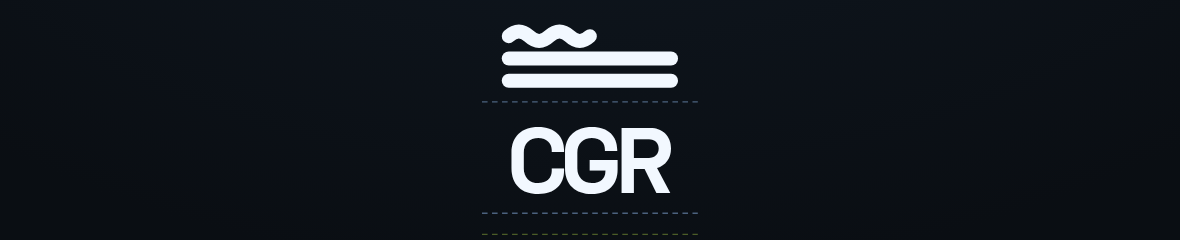
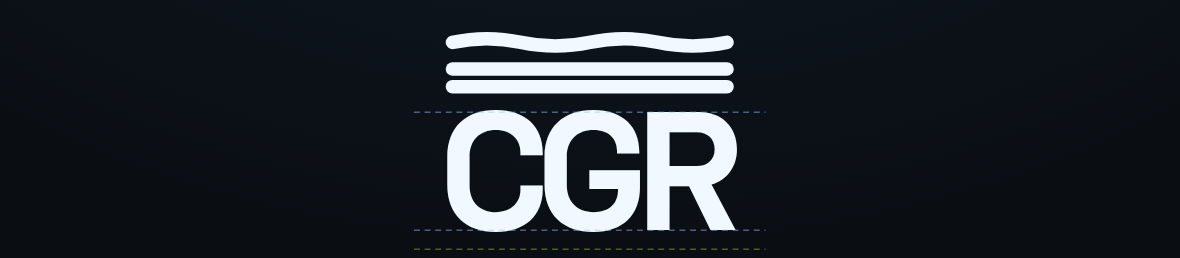
design(grade-lab): ink-based spacing, separate APX waves

Changed region(s): [[0.3661, 0.4083, 0.6407, 0.9042], [0.3661, 0.0875, 0.6407, 0.3792], [0.3661, 0.9625, 0.6407, 0.9917]]

diff --git a/design/grade-lab/lockup.js b/design/grade-lab/lockup.js
@@ -11,11 +11,27 @@
  *   - 横线 = 已经落定 → 落在基线以下（stack）。
  */
 
+// adv = 这一行到下一行的距离（cap height 的倍数）。
+// 波浪之间收得比“等号”略紧；等号两横比波浪更紧，像真的 ≅。
 export const SYMBOLS = {
-  APX: ['wave', 'wave'],
-  ASM: ['wave', 'line'],
-  CGR: ['wave', 'line', 'line'],
-  IDN: ['line', 'line', 'line'],
+  APX: [
+    { kind: 'wave', adv: 0.245 },
+    { kind: 'wave' },
+  ],
+  ASM: [
+    { kind: 'wave', adv: 0.225 },
+    { kind: 'line' },
+  ],
+  CGR: [
+    { kind: 'wave', adv: 0.225 },
+    { kind: 'line', adv: 0.15 },
+    { kind: 'line' },
+  ],
+  IDN: [
+    { kind: 'line', adv: 0.15 },
+    { kind: 'line', adv: 0.15 },
+    { kind: 'line' },
+  ],
 };
 
 const SVG_NS = 'http://www.w3.org/2000/svg';
@@ -45,63 +61,65 @@ export function renderLockup(host, opts) {
   text.textContent = word;
   svg.appendChild(text);
 
+  // SVG 的 getBBox 对 <text> 会连字体的 ascent / descent 一起算，不能当 cap height。
+  // 用 canvas 的 actualBoundingBoxAscent 量 'H' 的墨迹高度，才是真的 cap height。
+  const canvas = document.createElement('canvas');
+  const ctx = canvas.getContext('2d');
+  const family = getComputedStyle(host).fontFamily || 'sans-serif';
+  if (ctx) ctx.font = `800 ${size}px ${family}`;
+  const cap = ctx ? ctx.measureText('H').actualBoundingBoxAscent : size * 0.72;
+
   const box = text.getBBox();
-  const cap = box.height; // 全大写 → 包围盒高度就是 cap height
   const left = box.x;
   const right = box.x + box.width;
-  const top = box.y;
-  const baseline = box.y + box.height;
-  const width = box.width;
+  const baseline = 0;
+  const top = baseline - cap;
   const measure = right - left;
 
   // —— 2. 从字体里取网格 ——
-  const stem = cap * 0.125; // 和 800 字重的字干接近
-  const amp = cap * 0.085; // 波纹振幅
-  const gap = cap * 0.19; // 符号离字的距离
-  const step = cap * 0.2; // 行距
+  const stem = cap * 0.115; // 和 800 字重的字干接近
+  const amp = cap * 0.062; // 波纹振幅
+  const gap = cap * 0.16; // 符号的墨迹到字的距离
+  const inset = stem * 0.75; // 视觉宽度：记号比字略窄，A / X 这类斜边才不会被记号压住
 
-  const waves = rows.filter((r) => r === 'wave').length;
-  const lines = rows.filter((r) => r === 'line').length;
+  const inkLeft = left + inset;
+  const inkRight = right - inset;
+  const inkWidth = inkRight - inkLeft;
 
   const paths = [];
 
   const wavePath = (y) => {
-    const period = measure / 4;
-    const q = period / 2;
-    let d = `M ${left} ${y} q ${q / 2} ${-amp} ${q} 0`;
+    // 四个拱：接近字体里的 ≈，不是装饰性的波浪线。
+    const q = inkWidth / 4;
+    let d = `M ${inkLeft} ${y} q ${q / 2} ${-amp} ${q} 0`;
     for (let i = 0; i < 3; i += 1) d += ` t ${q} 0`;
     return d;
   };
-  const linePath = (y) => `M ${left} ${y} L ${right} ${y}`;
+  const linePath = (y) => `M ${inkLeft} ${y} L ${inkRight} ${y}`;
+
+  // 每一行到下一行的距离，以及每一行的墨迹半高（gap 量的是墨迹到墨迹，不是中心线）
+  const advances = rows.map((row) => cap * (row.adv ?? 0.15));
+  const half = rows.map((row) => (row.kind === 'wave' ? amp + stem / 2 : stem / 2));
+  const stackHeight = advances.slice(0, -1).reduce((sum, v) => sum + v, 0);
 
   if (variant === 'above') {
-    // 整个符号当作一枚记号，压在字的上方：最后一行离 cap line 一个 gap，
-    // 前面的行往上叠。宽度和字完全一致。
-    const total = (rows.length - 1) * step;
-    let y = top - gap - total;
-    for (const row of rows) {
-      paths.push(row === 'wave' ? wavePath(y) : linePath(y));
-      y += step;
-    }
-  } else if (variant === 'below') {
-    let y = baseline + gap;
-    for (const row of rows) {
-      paths.push(row === 'wave' ? wavePath(y) : linePath(y));
-      y += step;
-    }
-  } else if (variant === 'stack') {
-    // 所有行都在基线以下，像一条“底座”
-    let y = baseline + gap;
-    for (const row of rows) {
-      paths.push(row === 'wave' ? wavePath(y) : linePath(y));
-      y += step;
-    }
+    // 整枚记号压在字的上方：最后一行的底边离 cap line 一个 gap，前面的行往上叠。
+    let y = top - gap - half[rows.length - 1] - stackHeight;
+    rows.forEach((row, index) => {
+      paths.push(row.kind === 'wave' ? wavePath(y) : linePath(y));
+      y += advances[index];
+    });
+  } else if (variant === 'below' || variant === 'stack') {
+    let y = baseline + gap + half[0];
+    rows.forEach((row, index) => {
+      paths.push(row.kind === 'wave' ? wavePath(y) : linePath(y));
+      y += advances[index];
+    });
   } else {
     // behind：行均匀铺在字高区间，作为背景层（对比用）
-    const total = rows.length - 1;
     rows.forEach((row, index) => {
-      const y = top + (cap * index) / Math.max(1, total);
-      paths.push(row === 'wave' ? wavePath(y) : linePath(y));
+      const y = top + (cap * index) / Math.max(1, rows.length - 1);
+      paths.push(row.kind === 'wave' ? wavePath(y) : linePath(y));
     });
   }
 
@@ -119,12 +137,9 @@ export function renderLockup(host, opts) {
   const pad = cap * 0.24;
   const above = variant === 'above';
   const below = variant === 'below' || variant === 'stack';
-  const minY = above ? top - gap - (rows.length - 1) * step - amp - pad : top - pad * 0.6;
-  const maxY = below
-    ? baseline + gap + (rows.length - 1) * step + pad
-    : variant === 'above'
-      ? baseline + pad
-      : baseline + pad;
+  const inkTop = rows.length ? top - gap - half[rows.length - 1] - stackHeight - half[0] : top;
+  const minY = above ? inkTop - pad : top - pad * 0.6;
+  const maxY = below ? baseline + gap + stackHeight + half[0] + half[rows.length - 1] + pad : baseline + pad;
   const minX = left - pad;
   const maxX = right + pad;
   svg.setAttribute('viewBox', `${minX} ${minY} ${maxX - minX} ${maxY - minY}`);

diff --git a/design/grade-lab/index.html b/design/grade-lab/index.html
@@ -98,8 +98,8 @@
         <div class="rules">
           <p>
             <b>同宽</b>：符号的左右边界就是三个字母的实测包围盒，不缩、不伸出。
-            <b>同粗</b>：符号描边 = 字干粗细（≈ cap height 的 12.5%）。
-            <b>对齐</b>：波纹的对齐基准是 cap line，横线的对齐基准是 baseline。
+            <b>同粗</b>：符号描边 = 字干粗细（≈ cap height 的 11.5%）。
+            <b>对齐</b>：整枚记号的底边离 cap line 0.16 cap；等号的两横比波浪更紧。
           </p>
           <p>
             <b>语义参与布局</b>：波纹 = 还没收敛，横线 = 已经落定。整枚记号压在字的上方，

diff --git a/prototype/FUTURE.md b/prototype/FUTURE.md
@@ -67,8 +67,9 @@
 - **方向已定（2026-10-22）**：95% 以上用「三字母简写 + 数学同一性符号」的锁版。
   样张在 [`../design/grade-lab/`](../design/grade-lab/)：每个符号单独一页，符号是自绘 SVG，
   波纹逐级消失（`≈` 两波 → `≃` 一波一横 → `≅` 一波两横 → `≡` 三横），不依赖字体覆盖。
-- **锁版规则**：符号与字同宽（取字母实测包围盒）、描边与字干同粗、波纹对齐 cap line、
-  横线对齐 baseline；默认摆法是「整枚记号压在字上方」。
+- **锁版规则**：符号与字同宽（取字母实测包围盒，再收半个描边做视觉修正）、描边 = 字干
+  （cap height 的 11.5%）、记号底边离 cap line 0.16 cap（量墨迹，不量中心线）；
+  默认摆法是「整枚记号压在字上方」。
 - 恰好 100% 记为 **`IDN+`**（`IDN` 覆盖 99–100%，`IDN+` 只在满分时出现）。
 - 字母词表待定（当前提案 `APX / ASM / CGR / IDN`）。
 - 其它候选族（仅记录）：

diff --git a/design/grade-lab/README.md b/design/grade-lab/README.md
@@ -28,9 +28,9 @@
 
 | 约束 | 规则 |
 | --- | --- |
-| 同宽 | 符号左右边界 = 三个字母的包围盒，不缩、不伸出 |
-| 同粗 | 描边 = 字干粗细（≈ cap height 的 12.5%） |
-| 对齐 | 波纹对齐 cap line，横线对齐 baseline |
+| 同宽 | 符号左右边界 = 三个字母的包围盒（再收半个描边做视觉修正） |
+| 同粗 | 描边 = 字干粗细（≈ cap height 的 11.5%） |
+| 对齐 | 记号底边离 cap line 0.16 cap；行距按行类型给（等号比波浪更紧） |
 
 符号也是自绘 SVG：`≈` 两波 → `≃` 一波一横 → `≅` 一波两横 → `≡` 三横。
 波纹逐级消失，等于“误差在收敛”这件事本身。不依赖字体覆盖。
